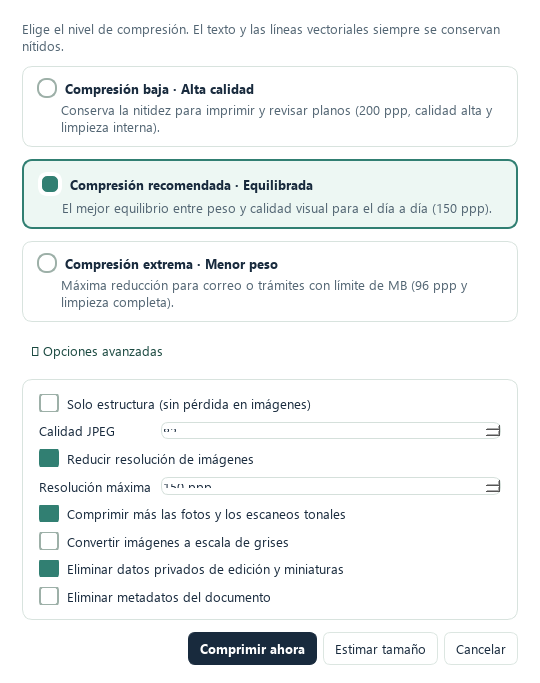
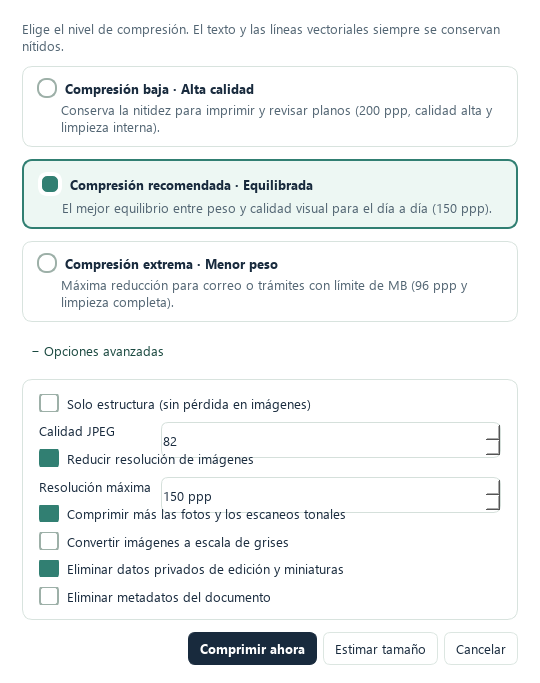
Fix SpinBox clipping, replace chevron glyph, and cache-bust updated WebP slides

diff --git a/docs/index.html b/docs/index.html
@@ -527,12 +527,12 @@
       <div class="carousel-wrap" id="heroCarousel" aria-label="Galería de pantallas de PDFiu">
         <div class="carousel-stage">
           <div class="carousel-track" id="carouselTrack">
-            <div class="carousel-slide"><img src="slides/es/01-portada.webp" alt="Vista general de PDFiu"></div>
-            <div class="carousel-slide"><img src="slides/es/02-comprimir.webp" alt="Compresión PDF inteligente"></div>
-            <div class="carousel-slide"><img src="slides/es/03-firmas-oscuro.webp" alt="Panel de firmas en modo oscuro"></div>
-            <div class="carousel-slide"><img src="slides/es/04-firma-visual.webp" alt="Firma visual PNG, JPG o PDF"></div>
-            <div class="carousel-slide"><img src="slides/es/05-organizar.webp" alt="Organizar páginas en cuadrícula"></div>
-            <div class="carousel-slide"><img src="slides/es/06-comparar-planos.webp" alt="Comparación visual de planos y PDFs"></div>
+            <div class="carousel-slide"><img src="slides/es/01-portada.webp?v=2" alt="Vista general de PDFiu"></div>
+            <div class="carousel-slide"><img src="slides/es/02-comprimir.webp?v=2" alt="Compresión PDF inteligente"></div>
+            <div class="carousel-slide"><img src="slides/es/03-firmas-oscuro.webp?v=2" alt="Panel de firmas en modo oscuro"></div>
+            <div class="carousel-slide"><img src="slides/es/04-firma-visual.webp?v=2" alt="Firma visual PNG, JPG o PDF"></div>
+            <div class="carousel-slide"><img src="slides/es/05-organizar.webp?v=2" alt="Organizar páginas en cuadrícula"></div>
+            <div class="carousel-slide"><img src="slides/es/06-comparar-planos.webp?v=2" alt="Comparación visual de planos y PDFs"></div>
           </div>
           <button class="carousel-nav prev" id="prevSlide" type="button" aria-label="Anterior">&#8249;</button>
           <button class="carousel-nav next" id="nextSlide" type="button" aria-label="Siguiente">&#8250;</button>
@@ -800,20 +800,20 @@
   <script>
     const slides = {
       es: [
-        'slides/es/01-portada.webp',
-        'slides/es/02-comprimir.webp',
-        'slides/es/03-firmas-oscuro.webp',
-        'slides/es/04-firma-visual.webp',
-        'slides/es/05-organizar.webp',
-        'slides/es/06-comparar-planos.webp',
+        'slides/es/01-portada.webp?v=2',
+        'slides/es/02-comprimir.webp?v=2',
+        'slides/es/03-firmas-oscuro.webp?v=2',
+        'slides/es/04-firma-visual.webp?v=2',
+        'slides/es/05-organizar.webp?v=2',
+        'slides/es/06-comparar-planos.webp?v=2',
       ],
       en: [
-        'slides/en/01-overview.webp',
-        'slides/en/02-compress.webp',
-        'slides/en/03-signatures-dark.webp',
-        'slides/en/04-visual-signature.webp',
-        'slides/en/05-organize.webp',
-        'slides/en/06-compare-drawings.webp',
+        'slides/en/01-overview.webp?v=2',
+        'slides/en/02-compress.webp?v=2',
+        'slides/en/03-signatures-dark.webp?v=2',
+        'slides/en/04-visual-signature.webp?v=2',
+        'slides/en/05-organize.webp?v=2',
+        'slides/en/06-compare-drawings.webp?v=2',
       ],
     };
     const AUTOPLAY_MS = 5500;

diff --git a/pdfiu_ui.py b/pdfiu_ui.py
@@ -712,8 +712,11 @@ QListWidget::item:hover:!selected { background: #eff5f1; }
 QGraphicsView { border: 0; background: #e8edea; }
 QWidget#emptyState { background: #f2f5f2; }
 QFrame#emptyCard { background: #fff; border: 1px solid #dce6e1; border-radius: 18px; }
-QLineEdit, QTextEdit, QPlainTextEdit, QComboBox, QSpinBox, QDoubleSpinBox {
+QLineEdit, QTextEdit, QPlainTextEdit, QComboBox {
     background: #fff; border: 1px solid #d5e0db; padding: 6px 8px; border-radius: 7px; color: #182a3d;
+}
+QSpinBox, QDoubleSpinBox {
+    background: #fff; border: 1px solid #d5e0db; padding: 3px 8px; min-height: 28px; border-radius: 7px; color: #182a3d;
 }
 QLineEdit:focus, QTextEdit:focus, QPlainTextEdit:focus, QComboBox:focus, QSpinBox:focus, QDoubleSpinBox:focus {
     border: 1px solid #317f72;
@@ -951,8 +954,11 @@ QScrollBar:vertical { background: transparent; width: 10px; margin: 2px; }
 QScrollBar::handle:vertical { background: #3b4656; min-height: 24px; border-radius: 3px; }
 QScrollBar::add-line:vertical, QScrollBar::sub-line:vertical { height: 0; }
 QScrollBar::add-page:vertical, QScrollBar::sub-page:vertical { background: transparent; }
-QLineEdit, QTextEdit, QPlainTextEdit, QComboBox, QSpinBox, QDoubleSpinBox {
+QLineEdit, QTextEdit, QPlainTextEdit, QComboBox {
     background: #141920; border: 1px solid #303a47; padding: 6px 8px; border-radius: 7px; color: #e6edf3;
+}
+QSpinBox, QDoubleSpinBox {
+    background: #141920; border: 1px solid #303a47; padding: 3px 8px; min-height: 28px; border-radius: 7px; color: #e6edf3;
 }
 QLineEdit:focus, QTextEdit:focus, QPlainTextEdit:focus, QComboBox:focus, QSpinBox:focus, QDoubleSpinBox:focus {
     border: 1px solid #4fb39d;

diff --git a/pdfiu_dialogs.py b/pdfiu_dialogs.py
@@ -1273,7 +1273,7 @@ class CompressDialog(QDialog):
             self.preset_cards[key] = card
             layout.addWidget(card)
 
-        self.advanced_toggle = QPushButton("▸ " + tr("Opciones avanzadas"))
+        self.advanced_toggle = QPushButton("+ " + tr("Opciones avanzadas"))
         self.advanced_toggle.setProperty("role", "flat")
         self.advanced_toggle.setCheckable(True)
         layout.addWidget(self.advanced_toggle)
@@ -1338,7 +1338,7 @@ class CompressDialog(QDialog):
             card.style().polish(card)
 
     def toggle_advanced(self, checked):
-        self.advanced_toggle.setText(("▾ " if checked else "▸ ") + tr("Opciones avanzadas"))
+        self.advanced_toggle.setText(("− " if checked else "+ ") + tr("Opciones avanzadas"))
         self.advanced_box.setVisible(checked)
         self.adjustSize()
 
